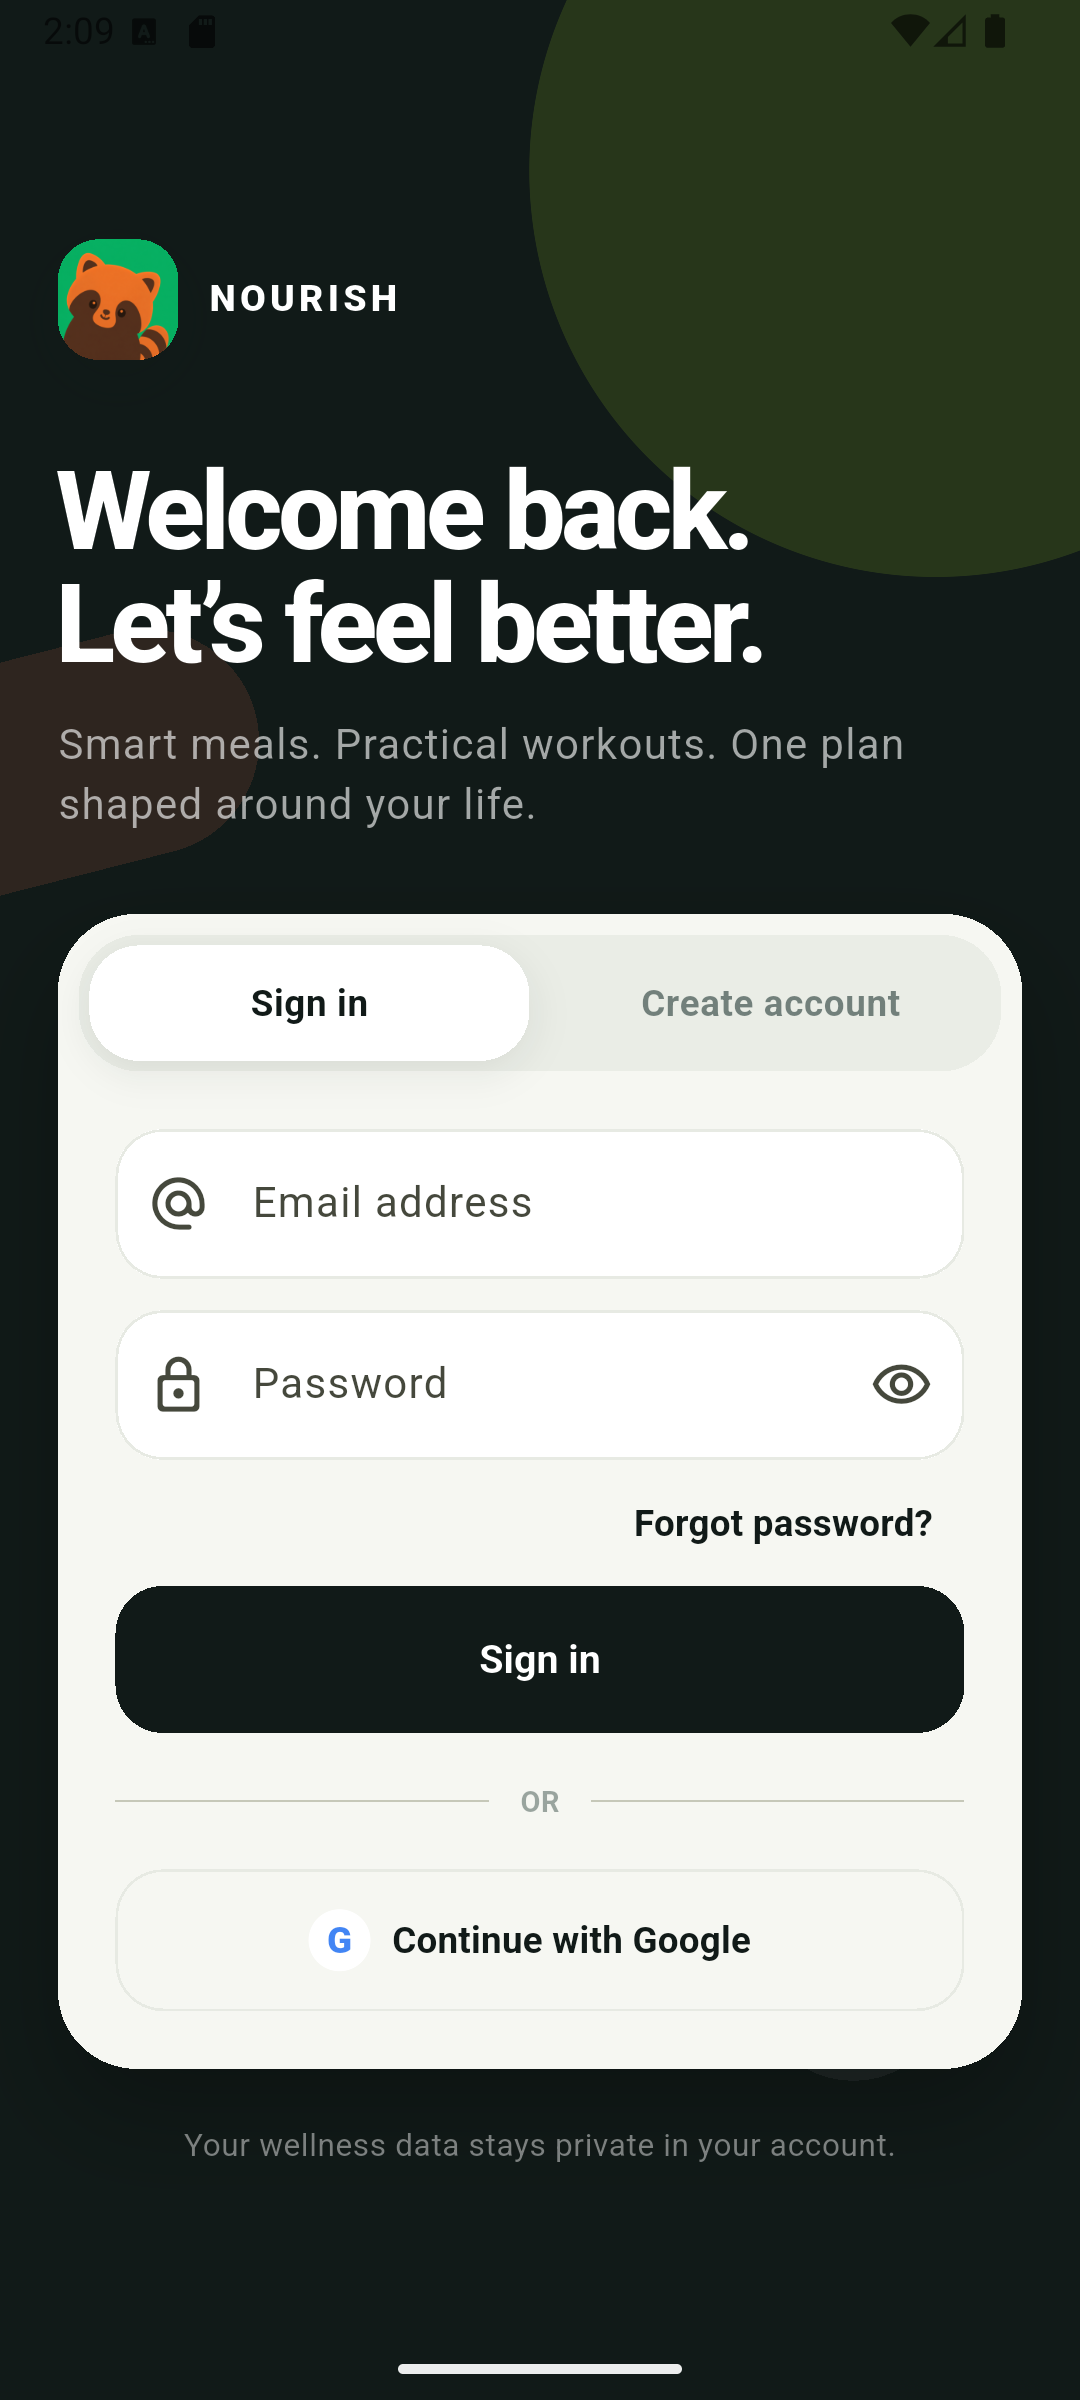
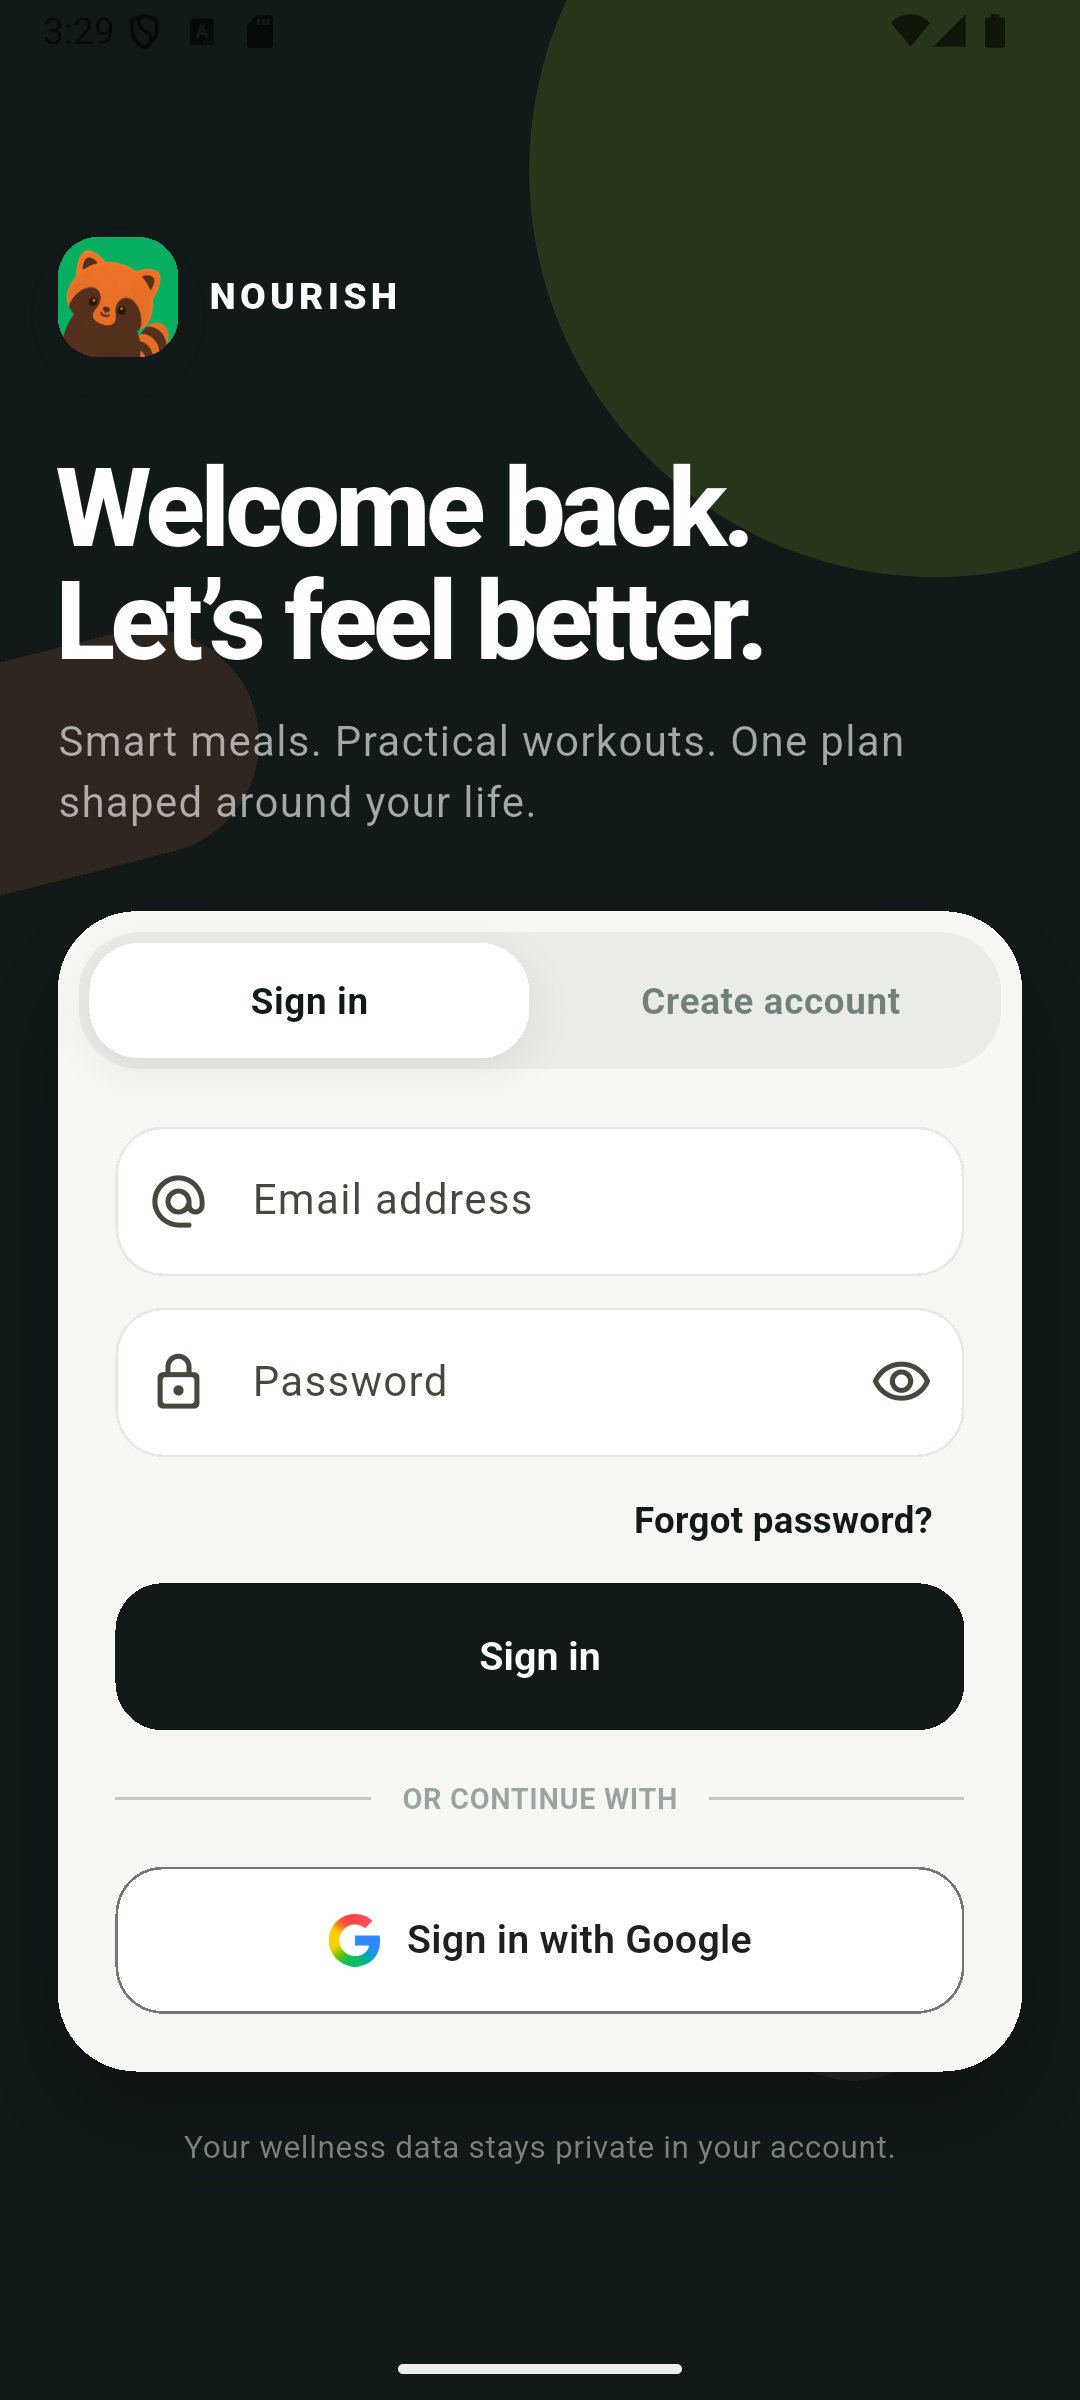
Polish Google authentication for v1.11.1

diff --git a/lib/screens/auth_screen.dart b/lib/screens/auth_screen.dart
@@ -3,6 +3,7 @@ import 'package:flutter/material.dart';
 import '../core/app_theme.dart';
 import '../services/auth_service.dart';
 import '../widgets/brand_mark.dart';
+import '../widgets/google_auth_button.dart';
 import '../widgets/shared_ui.dart';
 
 class AuthScreen extends StatefulWidget {
@@ -22,6 +23,7 @@ class _AuthScreenState extends State<AuthScreen> {
   bool _isSignUp = false;
   bool _obscurePassword = true;
   bool _loading = false;
+  bool _googleLoading = false;
 
   @override
   void dispose() {
@@ -55,13 +57,21 @@ class _AuthScreenState extends State<AuthScreen> {
   }
 
   Future<void> _googleSignIn() async {
-    setState(() => _loading = true);
+    setState(() {
+      _loading = true;
+      _googleLoading = true;
+    });
     try {
       await widget.authService.signInWithGoogle();
     } catch (error) {
       if (mounted) showAppMessage(context, AuthService.friendlyError(error));
     } finally {
-      if (mounted) setState(() => _loading = false);
+      if (mounted) {
+        setState(() {
+          _loading = false;
+          _googleLoading = false;
+        });
+      }
     }
   }
 
@@ -270,7 +280,7 @@ class _AuthScreenState extends State<AuthScreen> {
                                     FilledButton(
                                       key: const ValueKey('authSubmit'),
                                       onPressed: _loading ? null : _submit,
-                                      child: _loading
+                                      child: _loading && !_googleLoading
                                           ? const SizedBox.square(
                                               dimension: 21,
                                               child: CircularProgressIndicator(
@@ -293,7 +303,7 @@ class _AuthScreenState extends State<AuthScreen> {
                                             horizontal: 12,
                                           ),
                                           child: Text(
-                                            'OR',
+                                            'OR CONTINUE WITH',
                                             style: TextStyle(
                                               color: AppPalette.muted
                                                   .withValues(alpha: 0.7),
@@ -306,40 +316,12 @@ class _AuthScreenState extends State<AuthScreen> {
                                       ],
                                     ),
                                     const SizedBox(height: 18),
-                                    OutlinedButton.icon(
-                                      key: const ValueKey('googleSignIn'),
+                                    GoogleAuthButton(
                                       onPressed: _loading
                                           ? null
                                           : _googleSignIn,
-                                      icon: Container(
-                                        width: 24,
-                                        height: 24,
-                                        alignment: Alignment.center,
-                                        decoration: const BoxDecoration(
-                                          color: Colors.white,
-                                          shape: BoxShape.circle,
-                                        ),
-                                        child: const Text(
-                                          'G',
-                                          style: TextStyle(
-                                            color: Color(0xFF4285F4),
-                                            fontWeight: FontWeight.w900,
-                                          ),
-                                        ),
-                                      ),
-                                      label: const Text('Continue with Google'),
-                                      style: OutlinedButton.styleFrom(
-                                        foregroundColor: AppPalette.ink,
-                                        minimumSize: const Size.fromHeight(54),
-                                        side: const BorderSide(
-                                          color: AppPalette.line,
-                                        ),
-                                        shape: RoundedRectangleBorder(
-                                          borderRadius: BorderRadius.circular(
-                                            18,
-                                          ),
-                                        ),
-                                      ),
+                                      isSignUp: _isSignUp,
+                                      isLoading: _googleLoading,
                                     ),
                                   ],
                                 ),

diff --git a/lib/widgets/google_auth_button.dart b/lib/widgets/google_auth_button.dart
@@ -1,0 +1,136 @@
+import 'package:flutter/material.dart';
+
+class GoogleAuthButton extends StatelessWidget {
+  const GoogleAuthButton({
+    super.key,
+    required this.onPressed,
+    required this.isSignUp,
+    this.isLoading = false,
+  });
+
+  static const logoAsset = 'assets/images/google_g_logo.png';
+
+  final VoidCallback? onPressed;
+  final bool isSignUp;
+  final bool isLoading;
+
+  String get _label => isSignUp ? 'Sign up with Google' : 'Sign in with Google';
+
+  @override
+  Widget build(BuildContext context) {
+    final enabled = onPressed != null && !isLoading;
+
+    return Semantics(
+      button: true,
+      enabled: enabled,
+      label: isLoading ? 'Connecting to Google' : _label,
+      child: SizedBox(
+        height: 56,
+        width: double.infinity,
+        child: Material(
+          color: Colors.white,
+          shape: RoundedRectangleBorder(
+            borderRadius: BorderRadius.circular(18),
+            side: const BorderSide(color: Color(0xFF747775)),
+          ),
+          clipBehavior: Clip.antiAlias,
+          child: InkWell(
+            key: const ValueKey('googleSignIn'),
+            onTap: enabled ? onPressed : null,
+            overlayColor: WidgetStateProperty.resolveWith((states) {
+              if (states.contains(WidgetState.pressed)) {
+                return const Color(0xFF1F1F1F).withValues(alpha: 0.08);
+              }
+              if (states.contains(WidgetState.hovered) ||
+                  states.contains(WidgetState.focused)) {
+                return const Color(0xFF1F1F1F).withValues(alpha: 0.04);
+              }
+              return null;
+            }),
+            child: AnimatedSwitcher(
+              duration: const Duration(milliseconds: 180),
+              switchInCurve: Curves.easeOut,
+              switchOutCurve: Curves.easeIn,
+              child: isLoading
+                  ? const _GoogleLoadingLabel()
+                  : _GoogleLabel(label: _label, enabled: enabled),
+            ),
+          ),
+        ),
+      ),
+    );
+  }
+}
+
+class _GoogleLabel extends StatelessWidget {
+  const _GoogleLabel({required this.label, required this.enabled});
+
+  final String label;
+  final bool enabled;
+
+  @override
+  Widget build(BuildContext context) {
+    return Row(
+      key: ValueKey(label),
+      mainAxisAlignment: MainAxisAlignment.center,
+      mainAxisSize: MainAxisSize.min,
+      children: [
+        Opacity(
+          opacity: enabled ? 1 : 0.45,
+          child: Image.asset(
+            GoogleAuthButton.logoAsset,
+            width: 20,
+            height: 20,
+            filterQuality: FilterQuality.high,
+            semanticLabel: 'Google',
+          ),
+        ),
+        const SizedBox(width: 10),
+        Text(
+          label,
+          style: TextStyle(
+            color: const Color(
+              0xFF1F1F1F,
+            ).withValues(alpha: enabled ? 1 : 0.45),
+            fontSize: 15,
+            height: 20 / 15,
+            fontWeight: FontWeight.w600,
+            letterSpacing: 0.1,
+          ),
+        ),
+      ],
+    );
+  }
+}
+
+class _GoogleLoadingLabel extends StatelessWidget {
+  const _GoogleLoadingLabel();
+
+  @override
+  Widget build(BuildContext context) {
+    return const Row(
+      key: ValueKey('googleLoading'),
+      mainAxisAlignment: MainAxisAlignment.center,
+      mainAxisSize: MainAxisSize.min,
+      children: [
+        SizedBox.square(
+          dimension: 19,
+          child: CircularProgressIndicator(
+            strokeWidth: 2.2,
+            color: Color(0xFF4285F4),
+          ),
+        ),
+        SizedBox(width: 11),
+        Text(
+          'Connecting to Google…',
+          style: TextStyle(
+            color: Color(0xFF1F1F1F),
+            fontSize: 15,
+            height: 20 / 15,
+            fontWeight: FontWeight.w600,
+          ),
+        ),
+      ],
+    );
+  }
+}

diff --git a/test/google_auth_button_test.dart b/test/google_auth_button_test.dart
@@ -1,0 +1,49 @@
+import 'package:flutter/material.dart';
+import 'package:flutter_test/flutter_test.dart';
+import 'package:nourish/widgets/google_auth_button.dart';
+
+void main() {
+  testWidgets('Google auth button adapts its action and loading state', (
+    tester,
+  ) async {
+    var taps = 0;
+
+    Widget app({required bool isSignUp, bool isLoading = false}) {
+      return MaterialApp(
+        home: Scaffold(
+          body: Center(
+            child: SizedBox(
+              width: 360,
+              child: GoogleAuthButton(
+                onPressed: () => taps++,
+                isSignUp: isSignUp,
+                isLoading: isLoading,
+              ),
+            ),
+          ),
+        ),
+      );
+    }
+
+    await tester.pumpWidget(app(isSignUp: false));
+
+    expect(find.text('Sign in with Google'), findsOneWidget);
+    expect(
+      find.image(const AssetImage(GoogleAuthButton.logoAsset)),
+      findsOneWidget,
+    );
+    await tester.tap(find.byKey(const ValueKey('googleSignIn')));
+    expect(taps, 1);
+
+    await tester.pumpWidget(app(isSignUp: true));
+    await tester.pumpAndSettle();
+    expect(find.text('Sign up with Google'), findsOneWidget);
+
+    await tester.pumpWidget(app(isSignUp: true, isLoading: true));
+    await tester.pump(const Duration(milliseconds: 220));
+    expect(find.text('Connecting to Google…'), findsOneWidget);
+    expect(find.byType(CircularProgressIndicator), findsOneWidget);
+    await tester.tap(find.byKey(const ValueKey('googleSignIn')));
+    expect(taps, 1);
+  });
+}

diff --git a/README.md b/README.md
@@ -11,12 +11,12 @@
     <img src="https://img.shields.io/badge/Flutter-3.x-54C5F8?logo=flutter&logoColor=white" alt="Flutter" />
     <img src="https://img.shields.io/badge/Android-7.0%2B-3DDC84?logo=android&logoColor=white" alt="Android 7.0+" />
     <img src="https://img.shields.io/badge/Firebase-powered-FFCA28?logo=firebase&logoColor=black" alt="Firebase" />
-    <img src="https://img.shields.io/badge/release-v1.11.0-A8F20D" alt="Release v1.11.0" />
-    <img src="https://img.shields.io/badge/tests-48%20passing-05B875" alt="48 tests passing" />
+    <img src="https://img.shields.io/badge/release-v1.11.1-A8F20D" alt="Release v1.11.1" />
+    <img src="https://img.shields.io/badge/tests-49%20passing-05B875" alt="49 tests passing" />
   </p>
 
   <p>
-    <a href="https://github.com/SparshMishra09/Nourish/releases/download/v1.11.0/Nourish-Android-v1.11.0.apk">
+    <a href="https://github.com/SparshMishra09/Nourish/releases/download/v1.11.1/Nourish-Android-v1.11.1.apk">
       <img src="https://img.shields.io/badge/Download_Nourish-Android_APK-A8F20D?style=for-the-badge&logo=android&logoColor=101B17" alt="Download Nourish Android APK" />
     </a>
   </p>
@@ -59,13 +59,13 @@ The experience is designed around a simple loop:
 
 | Release | APK | Android support | Package |
 |---|---|---|---|
-| **Nourish v1.11.0** (`versionCode 16`) | [`Nourish-Android-v1.11.0.apk`](https://github.com/SparshMishra09/Nourish/releases/download/v1.11.0/Nourish-Android-v1.11.0.apk) | Android 7.0 / API 24 or newer | `com.rohitproject.rohit_fit_ai` |
+| **Nourish v1.11.1** (`versionCode 17`) | [`Nourish-Android-v1.11.1.apk`](https://github.com/SparshMishra09/Nourish/releases/download/v1.11.1/Nourish-Android-v1.11.1.apk) | Android 7.0 / API 24 or newer | `com.rohitproject.rohit_fit_ai` |
 
-You can also use the [Cortex organization release mirror](https://github.com/Cortex-org-in/Nourish/releases/download/v1.11.0/Nourish-Android-v1.11.0.apk).
+You can also use the [Cortex organization release mirror](https://github.com/Cortex-org-in/Nourish/releases/download/v1.11.1/Nourish-Android-v1.11.1.apk).
 
 To install the APK directly:
 
-1. Download **`Nourish-Android-v1.11.0.apk`** from the button above.
+1. Download **`Nourish-Android-v1.11.1.apk`** from the button above.
 2. Open the file on the Android device.
 3. If Android asks, allow installation from the browser or file manager used to open it.
 4. Install Nourish, open it, and grant camera/notification permissions only when the relevant feature needs them.
@@ -73,8 +73,9 @@ To install the APK directly:
 > [!NOTE]
 > This repository provides a release-mode APK for direct testing. Because it is installed outside Google Play, Nourish uses its sideload-safe Firebase configuration. A Play-distributed build can enable Play Integrity App Check explicitly.
 
-## What is new in v1.11.0
+## What is new in v1.11.1
 
+- **A first-class Google sign-in experience** — the authentication card now uses Google's official full-colour mark, current neutral button colours, clearer sign-in/sign-up wording, polished spacing, accessible semantics, and a dedicated connection state without changing the proven Firebase flow.
 - **Verified packaged-food scanning** — barcode and strict product matching now progress through Open Food Facts, grounded Google Search, and a source-visible public product-page fallback. Nourish uses a complete nutrition panel when available and never silently replaces a scan with a vaguely similar product.
 - **Evidence before logging** — packaged scans show the matched serving, exact-product confidence, source notes, and clickable product pages before anything is added to Today.
 - **A scanner that explains its work** — a polished scan-line animation moves through package reading, product matching, live-source verification, and review preparation while protecting the selected photo from accidental replacement.
@@ -377,12 +378,13 @@ The automated suite covers the product logic and the most failure-prone UI contr
 - staged scanner-animation rendering and progress messaging;
 - complete 100-recipe catalog integrity, photography, and meal-plan coverage;
 - workout-specific optional warm-up and cooldown construction.
+- Google authentication button wording, interaction, disabled state, and connection-state rendering.
 
 Before packaging the current release:
 
 ```text
 flutter analyze  → no issues
-flutter test     → 48 tests passed
+flutter test     → 49 tests passed
 Android QA       → auth, onboarding, live data, water, reminders, meals,
                    recipes, scan, workouts, demos, profile, heatmap,
                    completion celebration, web-label evidence, scanner animation,
@@ -400,15 +402,15 @@ Android QA       → auth, onboarding, live data, water, reminders, meals,
 
 ## Release information
 
-**Current release:** `v1.11.0`<br />
-**APK name:** `Nourish-Android-v1.11.0.apk`<br />
-**Build:** `1.11.0+16`<br />
[1 lines of base64/hex data omitted]
+**Current release:** `v1.11.1`<br />
+**APK name:** `Nourish-Android-v1.11.1.apk`<br />
+**Build:** `1.11.1+17`<br />
[1 lines of base64/hex data omitted]
 
 Release downloads:
 
-- [Primary GitHub release](https://github.com/SparshMishra09/Nourish/releases/tag/v1.11.0)
-- [Cortex organization mirror](https://github.com/Cortex-org-in/Nourish/releases/tag/v1.11.0)
+- [Primary GitHub release](https://github.com/SparshMishra09/Nourish/releases/tag/v1.11.1)
+- [Cortex organization mirror](https://github.com/Cortex-org-in/Nourish/releases/tag/v1.11.1)
 
 ## Contributing
 
